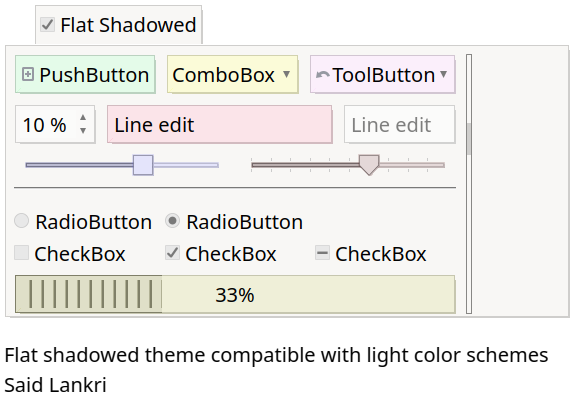
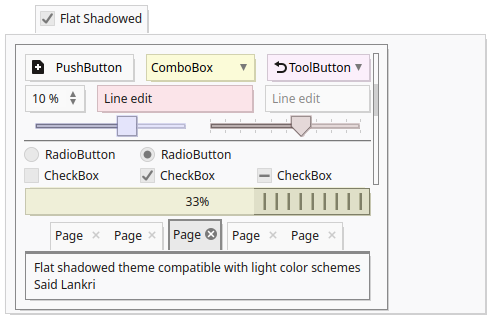
Fixes
QSvgStyle
---------
* Vertical progress bars now start from bottom
  unless inverted appearance is set
  Fix their size too
* Tool buttons do not show arrows when in QML mode
* Tab East/West+RTL label shown correctly
* View items honour Highlighted and HighlightedText colors
* Frameless combo boxes rendered correctly

QSvgThemeBuilder
----------------
* Fix file permissions when saving theme

diff --git a/style/QSvgThemableStyle.cpp b/style/QSvgThemableStyle.cpp
@@ -799,7 +799,6 @@ void QSvgThemableStyle::drawPrimitive(PrimitiveElement e, const QStyleOption * o
       break;
     }
     case PE_IndicatorBranch : {
-      // FIXME branches overlap expand/collapse indicators
       if ( const QStyleOptionViewItem *opt =
         qstyleoption_cast<const QStyleOptionViewItem *>(option) ) {
 
@@ -1176,6 +1175,10 @@ void QSvgThemableStyle::drawPrimitive(PrimitiveElement e, const QStyleOption * o
           p->drawRect(r);
           p->setBrush(br);
           p->setPen(pn);
+
+          if ( st == "toggled" ) {
+            bg = opt->palette.brush(QPalette::Highlight);
+          }
 
           if ( st != "normal" ) {
             // only paint when state is not normal, otherwise keep
@@ -1565,6 +1568,9 @@ void QSvgThemableStyle::drawControl(ControlElement e, const QStyleOption * optio
         if ( focus )
           setupPainterFromFontSpec(p,ts, "focused");
 
+        if ( !opt->frame )
+          fs.hasFrame = false;
+
         if ( !opt->editable ) {
           // NOTE Editable label is rendered by an embedded QLineEdit
           // inside the QComboBox object, except icon
@@ -1761,6 +1767,9 @@ void QSvgThemableStyle::drawControl(ControlElement e, const QStyleOption * optio
              opt->shape == QTabBar::TriangularWest ||
              opt->shape == QTabBar::RoundedWest ) {
 
+          // East/West: QTabWidget draws the close button
+          // at the same position independently of RTL/LTR
+          dir = Qt::LeftToRight;
           p->save();
           int newX = w+x;
           int newY = y;
@@ -1808,8 +1817,6 @@ void QSvgThemableStyle::drawControl(ControlElement e, const QStyleOption * optio
         if ( focus )
           setupPainterFromFontSpec(p,ts, "focused");
 
-        // FIXME East tabs: align of text origin should be "close" button,
-        // not x of tab
         renderLabel(p,fg,
                     dir,
                     r,
@@ -2032,7 +2039,7 @@ void QSvgThemableStyle::drawControl(ControlElement e, const QStyleOption * optio
             cr = visualRect(dir,orig,cr);
           }
 
-          if ( opt->invertedAppearance ) {
+          if ( !opt->invertedAppearance ) {
             r = visualRect(Qt::RightToLeft,orig,r);
             cr = visualRect(Qt::RightToLeft,orig,cr);
           }
@@ -2487,7 +2494,7 @@ void QSvgThemableStyle::drawControl(ControlElement e, const QStyleOption * optio
         if ( focus )
           setupPainterFromFontSpec(p,ts, "focused");
 
-        if (opt->arrowType == Qt::NoArrow)
+        if ( !(opt->features & QStyleOptionToolButton::Arrow) || (opt->arrowType == Qt::NoArrow) )
           renderLabel(p,fg,
                       dir,r,fs,is,ls,
                       Qt::AlignCenter | Qt::TextShowMnemonic,
@@ -2511,34 +2518,36 @@ void QSvgThemableStyle::drawControl(ControlElement e, const QStyleOption * optio
                         opt->toolButtonStyle);
         }
 
-        // alignement of arrow
-        Qt::Alignment hAlign = visualAlignment(dir,Qt::AlignLeft);
-        if ( opt->text.isEmpty() && opt->icon.isNull() )
-          hAlign = Qt::AlignCenter;
+        if ( opt->features & QStyleOptionToolButton::Arrow ) {
+          // alignement of arrow
+          Qt::Alignment hAlign = visualAlignment(dir,Qt::AlignLeft);
+          if ( opt->text.isEmpty() && opt->icon.isNull() )
+            hAlign = Qt::AlignCenter;
 
-        switch (opt->arrowType) {
-          case Qt::NoArrow :
-            break;
-          case Qt::UpArrow :
-            renderIndicator(p,r,fs,is,ds,ds.element+"-up-"+st,
-                            dir,
-                            hAlign | Qt::AlignVCenter);
-            break;
-          case Qt::DownArrow :
-            renderIndicator(p,r,fs,is,ds,ds.element+"-down-"+st,
-                            dir,
-                            hAlign | Qt::AlignVCenter);
-            break;
-          case Qt::LeftArrow :
-            renderIndicator(p,option->rect,fs,is,ds,ds.element+"-left-"+st,
-                            dir,
-                            hAlign | Qt::AlignVCenter);
-            break;
-          case Qt::RightArrow :
-            renderIndicator(p,option->rect,fs,is,ds,ds.element+"-right-"+st,
-                            dir,
-                            hAlign | Qt::AlignVCenter);
-            break;
+          switch (opt->arrowType) {
+            case Qt::NoArrow :
+              break;
+            case Qt::UpArrow :
+              renderIndicator(p,r,fs,is,ds,ds.element+"-up-"+st,
+                              dir,
+                              hAlign | Qt::AlignVCenter);
+              break;
+            case Qt::DownArrow :
+              renderIndicator(p,r,fs,is,ds,ds.element+"-down-"+st,
+                              dir,
+                              hAlign | Qt::AlignVCenter);
+              break;
+            case Qt::LeftArrow :
+              renderIndicator(p,option->rect,fs,is,ds,ds.element+"-left-"+st,
+                              dir,
+                              hAlign | Qt::AlignVCenter);
+              break;
+            case Qt::RightArrow :
+              renderIndicator(p,option->rect,fs,is,ds,ds.element+"-right-"+st,
+                              dir,
+                              hAlign | Qt::AlignVCenter);
+              break;
+          }
         }
       }
 
@@ -2627,7 +2636,10 @@ void QSvgThemableStyle::drawControl(ControlElement e, const QStyleOption * optio
 
         p->save();
         p->setFont(opt->font);
-        fg = opt->palette.brush(QPalette::Text);
+        if ( st == "toggled" )
+          fg = opt->palette.brush(QPalette::HighlightedText);
+        else
+          fg = opt->palette.brush(QPalette::Text);
         const Qt::ToolButtonStyle tialign =
           opt->decorationPosition == QStyleOptionViewItem::Top ? Qt::ToolButtonTextUnderIcon :
           Qt::ToolButtonTextBesideIcon;
@@ -3181,7 +3193,7 @@ void QSvgThemableStyle::drawComplexControl(ComplexControl control, const QStyleO
         qreal pos = sliderPositionFromValue(opt->minimum,opt->maximum,
                                             opt->sliderValue, range,
                                             !opt->upsideDown);
-        qreal angle = startAngle+pos;
+        qreal angle;
          if ( dir == Qt::LeftToRight )
            angle = 180+startAngle+pos; // 0° at 9 o'clock
          else
@@ -3883,7 +3895,7 @@ QSize QSvgThemableStyle::sizeFromContents ( ContentsType type, const QStyleOptio
                                : QString());
         }
 
-        if ( opt->bottomToTop )
+        if ( !(opt->state & State_Horizontal) )
           s.transpose();
       }
 
@@ -3920,7 +3932,7 @@ QSize QSvgThemableStyle::sizeFromContents ( ContentsType type, const QStyleOptio
                              opt->iconSize.width(),
                              opt->toolButtonStyle).expandedTo(ms);
 
-        if (opt->arrowType != Qt::NoArrow) {
+        if ( (opt->features & QStyleOptionToolButton::Arrow) && (opt->arrowType != Qt::NoArrow) ) {
           // add room for arrow
           s.rwidth() += ds.size;
           // add spacing between arrow and label if necessary
@@ -4313,8 +4325,8 @@ QRect QSvgThemableStyle::subElementRect(SubElement e, const QStyleOption * optio
 
     case SE_TabBarTabText : {
       ret = labelRect(r,fs,is,ls);
-      if ( const QTabWidget *w = qobject_cast< const QTabWidget* >(widget) ) {
-          if ( w->tabsClosable() ) {
+      if ( const QTabWidget *tw = qobject_cast< const QTabWidget* >(widget) ) {
+          if ( tw->tabsClosable() ) {
             ret.adjust(0,0,-pixelMetric(PM_TabCloseIndicatorWidth,option,widget),0);
           }
       }

diff --git a/themebuilder/ThemeBuilderUI.cpp b/themebuilder/ThemeBuilderUI.cpp
@@ -1508,6 +1508,7 @@ void ThemeBuilderUI::slot_saveTheme()
 
   config->commitWriteCache();
 
+  QFileDevice::Permissions p = QFile::permissions(cfgFile);
   if ( !QFile::remove(cfgFile) ) {
     qWarning() << "[QSvgThemeBuilder]" << "Could not remove" << cfgFile;
     return;
@@ -1517,6 +1518,7 @@ void ThemeBuilderUI::slot_saveTheme()
     qWarning() << "[QSvgThemeBuilder]" << "Could not save" << cfgFile;
     return;
   }
+  QFile(cfgFile).setPermissions(p);
 
   qDebug() << "[QSvgThemeBuilder]" << "Theme config" << cfgFile << "saved";
 

diff --git a/README.md b/README.md
@@ -10,15 +10,21 @@ It comes with the style engine (QSvgStyle), a theme builder (QSvgThemeBuilder),
 Some themes are also included.
 
 - FlatShadowed: our best light theme with outstanding support for color palettes
+
 ![FlatDark](themes/FlatShadowed/FlatShadowed.png)
 
+
 - Godot2: a port for the dark Godot game engine theme
+
 ![Godot2](themes/godot2/godot2.png)
 
+
 - Godot2 Catppuccin Latte: Godot2 with Catppuccin's Latte color scheme
+
 ![Godot2CatppuccinLatte](themes/godot-catppuccin-latte/godot-catppuccin-latte.png)
 
 - Windows11 Light Seafoam
+
 ![Win11Seafoam](themes/win11-light-seafoam/win11-light-seafoam.png)
 
 ## QSvgStyle
